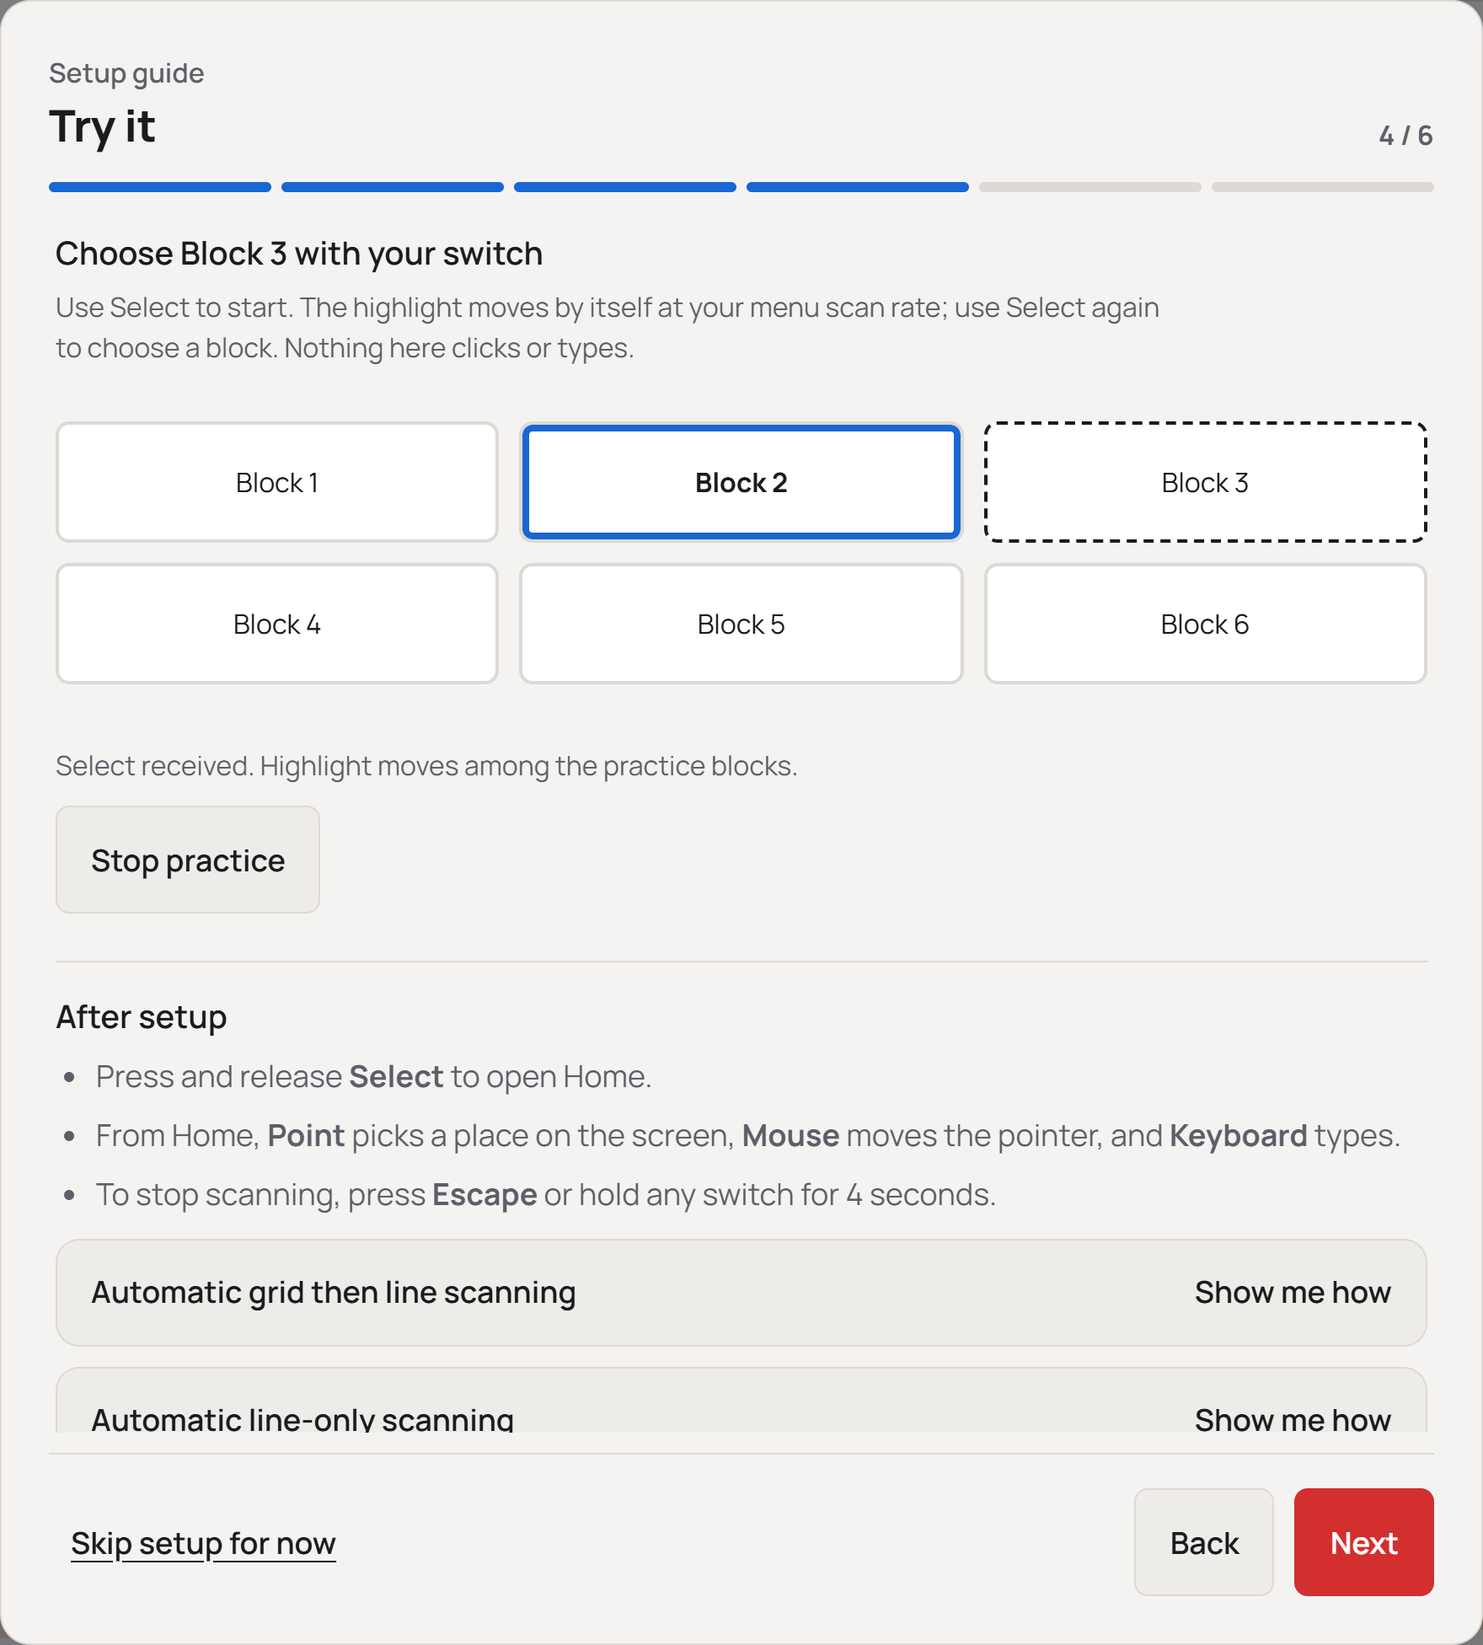
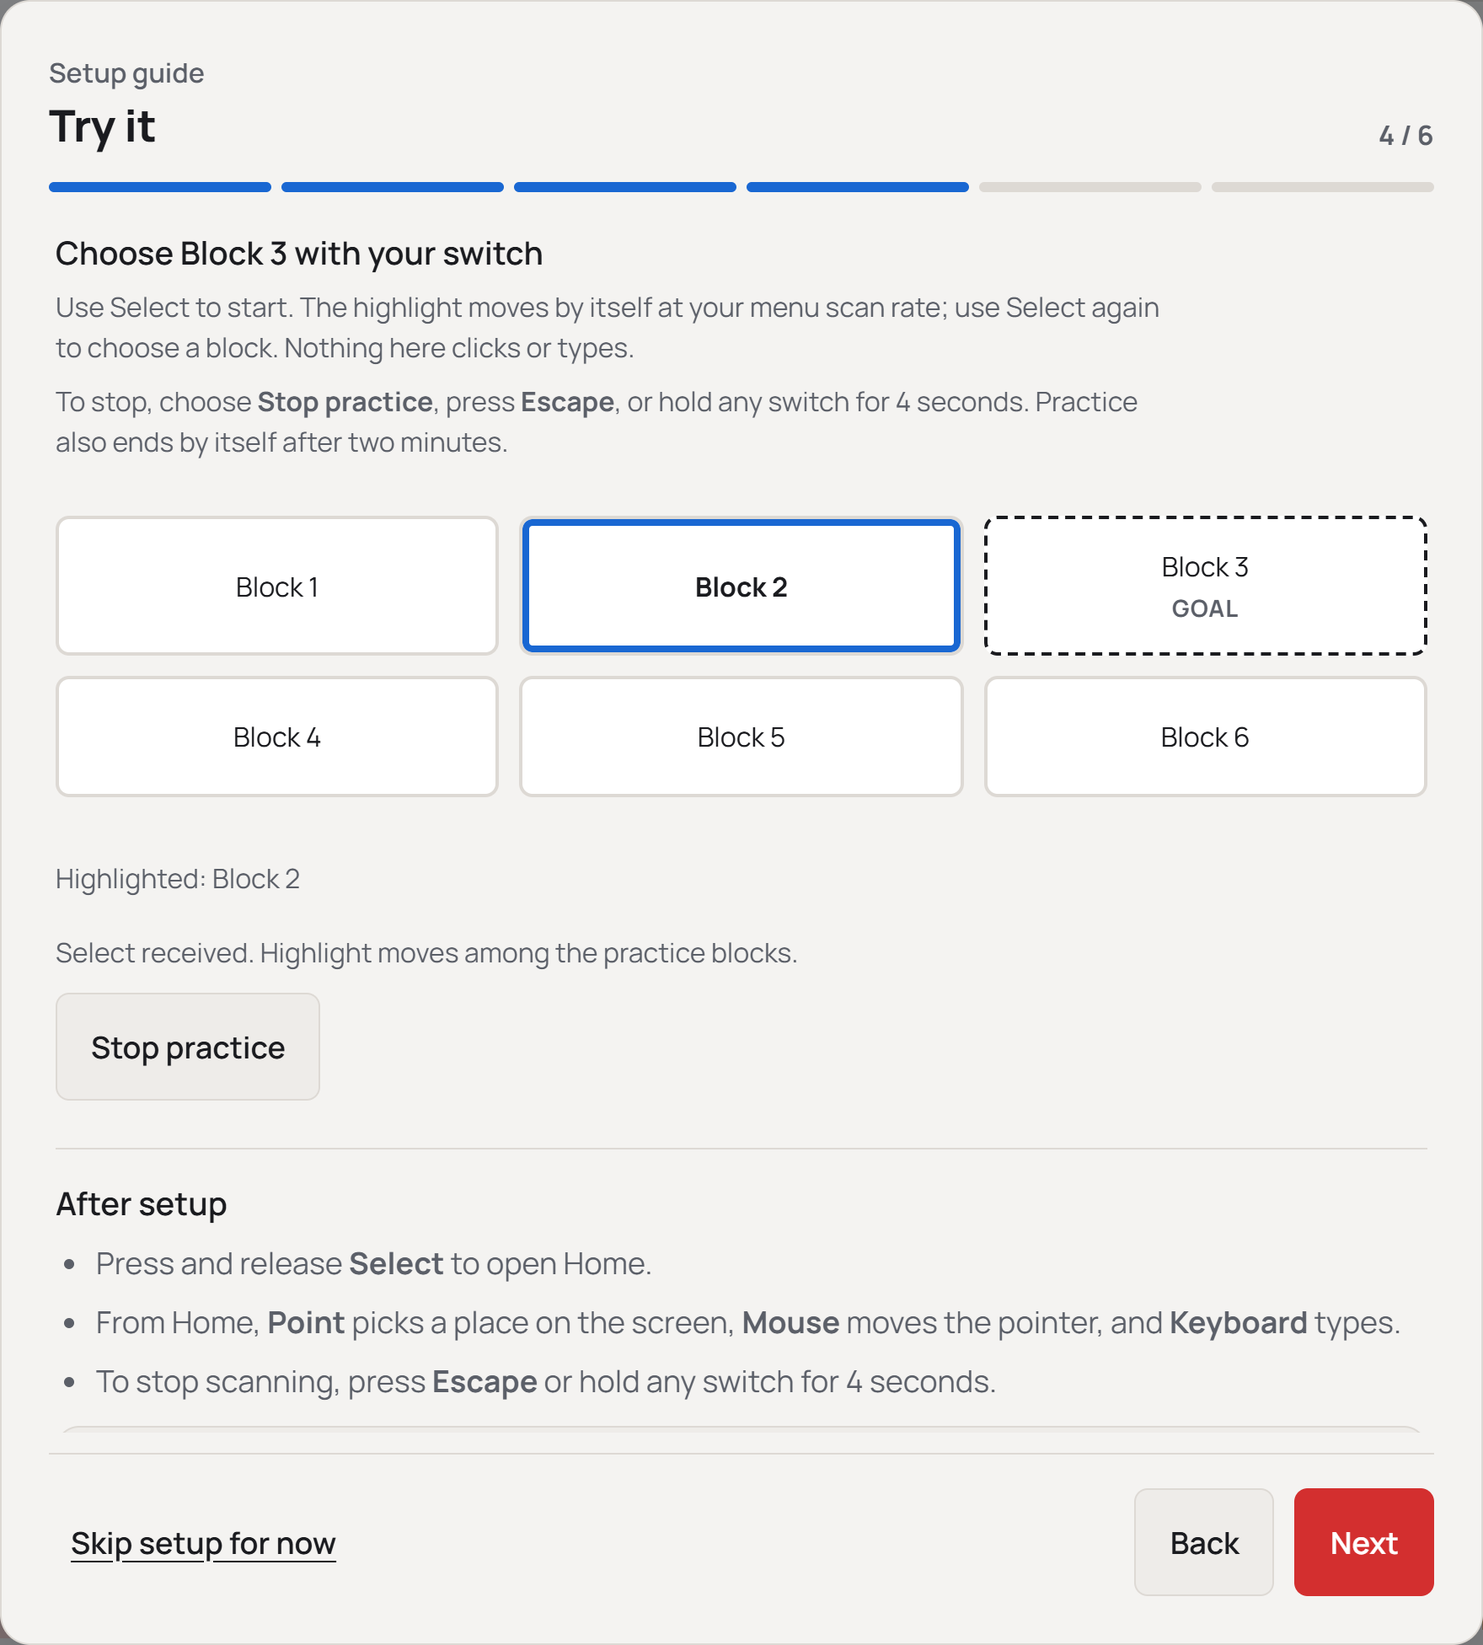
Address review of the setup guide Try it step
- Practice scans with the Home menu's full settings, including passes,
  direction and first-item and group timing. When its passes run out,
  the highlight stops and Select starts it again, as in the menu,
  instead of appearing stuck on a block.
- Manual practice checks that Select, Next and Previous are assigned,
  as manual scanning does, so the guide says why it cannot start.
- Focus moves to Stop practice when practice starts and back to Start
  practice when it ends; the highlighted block is announced, Block 3
  is labelled Goal, and the step says when practice has ended.
- A pairing request that suspends the guide ends practice.
- The step says how to stop practice.

Refs #1488

Changed region(s): [[0.0312, 0.2188, 0.9688, 0.875], [0.8125, 0.8438, 0.9375, 0.875], [0.7188, 0.2188, 0.75, 0.25]]

diff --git a/src/setup/TryItStep.tsx b/src/setup/TryItStep.tsx
@@ -1,4 +1,4 @@
-import { useEffect, useState } from "react";
+import { useEffect, useRef, useState } from "react";
 import { CircleCheck } from "lucide-react";
 import { Button } from "../ui/controls";
 import { FeedbackMessage } from "../ui/patterns";
@@ -27,25 +27,43 @@ export function TryItStep({ hasSwitch, phone, automatic, escapeSeconds, suspende
   // Practice clears its view when it ends; the success stays.
   const [succeeded, setSucceeded] = useState(false);
   useEffect(() => { if (reached) setSucceeded(true); }, [reached]);
+  // A pairing request covers the guide, so practice must not keep the switches meanwhile.
+  useEffect(() => { if (suspended && open) void close(); }, [suspended, open]);
+  // Focus follows the control that replaces the one just used, so nobody is left on the page body.
+  const startRef = useRef<HTMLButtonElement>(null);
+  const stopRef = useRef<HTMLButtonElement>(null);
+  const [ended, setEnded] = useState(false);
+  const wasOpen = useRef(false);
+  useEffect(() => {
+    if (open) { setEnded(false); stopRef.current?.focus(); }
+    else if (wasOpen.current) { setEnded(true); if (!suspended) startRef.current?.focus(); }
+    wasOpen.current = open;
+  }, [open]);
   if (phone) return <div className="setup-try">
     <h3>Try it from your phone</h3>
     <p>On your phone, open Switchify, choose <strong>PC control</strong>, and pick this computer. Its Mouse, Typing and Window controls then work this computer. Scanning on this computer pauses while the phone is connected.</p>
     <AfterSetup escapeSeconds={escapeSeconds} />
   </div>;
   const missed = !!view?.lastChoice && !reached;
+  const highlighted = view?.blocks.find(block => block.selected)?.label;
   return <div className="setup-try">
     <h3>Choose {goalBlock} with your switch</h3>
     {!hasSwitch ? <p>Add a switch first to try it here. You can also practise later from <strong>Switches</strong>.</p> : <>
       <p>{practiceInstructions(view?.automatic ?? automatic)} Nothing here clicks or types.</p>
-      {!open && <Button type="button" className="primary" disabled={pending || suspended || !practiceAvailable()} onClick={() => void begin(false)}>Start practice</Button>}
+      <p>To stop, choose <strong>Stop practice</strong>, press <strong>Escape</strong>, or hold any switch for {escapeSeconds} seconds. Practice also ends by itself after two minutes.</p>
+      {!open && <Button ref={startRef} type="button" className="primary" disabled={pending || suspended || !practiceAvailable()} onClick={() => void begin(false)}>Start practice</Button>}
       {open && <div className="setup-try-practice">
         <ul className="switch-practice-blocks" aria-label="Practice blocks">
-          {(view?.blocks ?? []).map(block => <li key={block.id} data-selected={block.selected} data-goal={block.label === goalBlock || undefined}>{block.label}</li>)}
+          {(view?.blocks ?? []).map(block => <li key={block.id} data-selected={block.selected} aria-current={block.selected || undefined} data-goal={block.label === goalBlock || undefined}>
+            {block.label}{block.label === goalBlock && <small className="setup-try-goal">Goal</small>}
+          </li>)}
         </ul>
+        <p aria-live="polite">Highlighted: {highlighted ?? "none"}</p>
         <p role="status" aria-live="polite">{reached ? `You chose ${goalBlock}. Your switch is working.` : missed ? `You chose ${view?.lastChoice}. Press Select to try again for ${goalBlock}.` : view?.message ?? "Starting practice…"}</p>
-        <Button type="button" className="secondary" disabled={pending} onClick={() => void close()}>Stop practice</Button>
+        <Button ref={stopRef} type="button" className="secondary" disabled={pending} onClick={() => void close()}>Stop practice</Button>
       </div>}
-      {succeeded && !open && <p className="setup-try-done" role="status"><CircleCheck size={20} />You chose {goalBlock}. Your switch is working.</p>}
+      {!open && succeeded && <p className="setup-try-done" role="status"><CircleCheck size={20} />You chose {goalBlock}. Your switch is working.</p>}
+      {!open && ended && !succeeded && <p role="status">Practice ended. Choose Start practice to try again.</p>}
       {error && <FeedbackMessage>{error}</FeedbackMessage>}
     </>}
     <AfterSetup escapeSeconds={escapeSeconds} />

diff --git a/src/setup/TryItStep.test.tsx b/src/setup/TryItStep.test.tsx
@@ -51,6 +51,36 @@ describe("setup Try it step", () => {
     expect(invoke).toHaveBeenCalledWith("end_switch_practice");
   });
 
+  it("moves focus with practice and says where the highlight is", async () => {
+    current = { ...view, blocks: blocks(2) };
+    step();
+    fireEvent.click(screen.getByRole("button", { name: "Start practice" }));
+    await waitFor(() => expect(screen.getByRole("button", { name: "Stop practice" })).toHaveFocus());
+    expect(screen.getByText("Highlighted: Block 2")).toBeInTheDocument();
+    // The goal is in the text, not only in its outline.
+    expect(screen.getByText("Block 3").closest("li")).toHaveTextContent("Block 3Goal");
+    fireEvent.click(screen.getByRole("button", { name: "Stop practice" }));
+    await waitFor(() => expect(screen.getByRole("button", { name: "Start practice" })).toHaveFocus());
+    expect(screen.getByText("Practice ended. Choose Start practice to try again.")).toBeInTheDocument();
+  });
+
+  it("ends practice when a pairing request suspends the guide", async () => {
+    const { rerender } = step();
+    fireEvent.click(screen.getByRole("button", { name: "Start practice" }));
+    await screen.findByRole("list", { name: "Practice blocks" });
+    invoke.mockClear();
+    rerender(<TryItStep hasSwitch phone={false} automatic escapeSeconds={4} suspended />);
+    await waitFor(() => expect(invoke).toHaveBeenCalledWith("end_switch_practice"));
+    expect(screen.getByRole("button", { name: "Start practice" })).toBeDisabled();
+  });
+
+  it("shows why practice could not start", async () => {
+    invoke.mockImplementation(async (command: string) => { if (command === "begin_switch_practice") throw new Error("Manual scanning starts once switches cover Select, Next and Previous."); });
+    step({ automatic: false });
+    fireEvent.click(screen.getByRole("button", { name: "Start practice" }));
+    expect(await screen.findByRole("alert")).toHaveTextContent("Manual scanning starts once switches cover Select, Next and Previous.");
+  });
+
   it("asks for a switch first when none is saved", () => {
     step({ hasSwitch: false });
     expect(screen.queryByRole("button", { name: "Start practice" })).not.toBeInTheDocument();
@@ -65,6 +95,7 @@ describe("setup Try it step", () => {
 
   it("says how to open Home and stop scanning", () => {
     step({ escapeSeconds: 3 });
-    expect(screen.getByText(/hold any switch for 3 seconds/)).toBeInTheDocument();
+    expect(screen.getByText(/To stop scanning, press/)).toHaveTextContent("hold any switch for 3 seconds");
+    expect(screen.getByText(/To stop, choose/)).toHaveTextContent("hold any switch for 3 seconds");
   });
 });

diff --git a/src/ui/app.css b/src/ui/app.css
@@ -820,6 +820,8 @@ fieldset:disabled :is(.color-options, .scanner-colours) label:not(:has(input:che
 .setup-try-practice { display: grid; justify-items: start; gap: 12px; margin-top: 16px; }
 .setup-try-practice .switch-practice-blocks { width: 100%; }
 .setup-try .switch-practice-blocks li[data-goal] { border: 2px dashed var(--text); }
+.setup-try .switch-practice-blocks li { flex-direction: column; gap: 2px; }
+.setup-try-goal { color: var(--muted); font-size: 14px; font-weight: 700; text-transform: uppercase; letter-spacing: 0.04em; }
 .setup-content p.setup-try-done { display: flex; align-items: center; gap: 8px; color: var(--text); font-weight: 700; }
 .setup-after { margin-top: 28px; border-top: 1px solid var(--border); padding-top: 20px; }
 .setup-after ul { margin: 8px 0 0; padding-left: 24px; color: var(--muted); line-height: 1.6; }

diff --git a/src-tauri/src/switch_practice.rs b/src-tauri/src/switch_practice.rs
@@ -1,6 +1,7 @@
 //! Bounded switch practice: real gestures and a simple block scanner, no native execution.
 use crate::{
     scan_items::{ItemScanner, Policy},
+    scan_preferences::Resolved,
     scan_tree::Node,
     scanning::{Action, Frame, Session, Technique},
     switch_gestures::Gestures,
@@ -18,19 +19,13 @@ const PRACTICE_BLOCKS: [&str; 6] = [
 /// Used when the scanning settings cannot be read, as before practice followed them.
 const PRACTICE_INTERVAL_MS: u64 = 1000;
 
-/// How the practice highlight moves: the menu's automatic scanning and scan
-/// rate, so practice feels like the Home menu it prepares for.
-#[derive(Clone, Copy, Debug, PartialEq, Eq)]
-pub struct Pace {
-    pub automatic: bool,
-    pub interval_ms: u64,
-}
-impl Default for Pace {
-    fn default() -> Self {
-        Self {
-            automatic: false,
-            interval_ms: PRACTICE_INTERVAL_MS,
-        }
+/// How practice scans when the menu's settings cannot be read: manual, at
+/// the rate practice always used.
+fn fallback_options() -> Resolved {
+    Resolved {
+        automatic: false,
+        interval_ms: PRACTICE_INTERVAL_MS,
+        ..Resolved::default()
     }
 }
 
@@ -63,27 +58,32 @@ struct Block {
     label: &'static str,
 }
 
+/// The practice blocks scan with the Home menu's settings: automatic or
+/// manual, scan rate, direction, passes, and first-item and group timing.
 struct Blocks {
     scan: ItemScanner<Block>,
     labels: Vec<&'static str>,
-    interval_ms: u64,
 }
 impl Blocks {
-    fn new(interval_ms: u64) -> Self {
+    fn new(options: Resolved) -> Self {
         let labels = PRACTICE_BLOCKS.to_vec();
         let nodes = labels
             .iter()
             .enumerate()
             .map(|(id, label)| Node::Leaf(Block { id, label }))
             .collect();
-        Self {
-            scan: ItemScanner::new(nodes, Policy::MENU),
-            labels,
-            interval_ms,
-        }
+        let mut scan = ItemScanner::new(nodes, Policy::MENU);
+        scan.options = options;
+        scan.restart();
+        Self { scan, labels }
+    }
+    /// Scanning ran out of passes; like the menu, it waits for Select.
+    fn stopped(&self) -> bool {
+        self.scan.suspended
     }
     fn views(&self, scanning: bool) -> Vec<BlockView> {
-        let selected = scanning.then(|| self.scan.nav.index());
+        // A stopped scan shows no highlight, as the menu does.
+        let selected = (scanning && !self.stopped()).then(|| self.scan.nav.index());
         self.labels
             .iter()
             .enumerate()
@@ -102,7 +102,7 @@ impl Technique for Blocks {
         self.scan.restart();
     }
     fn advance(&mut self, elapsed_ms: u64) {
-        self.scan.advance(elapsed_ms, self.interval_ms);
+        self.scan.advance(elapsed_ms, self.scan.options.interval_ms);
     }
     fn handle(&mut self, action: Action) -> Option<Self::Selection> {
         self.scan.handle(action)
@@ -128,7 +128,7 @@ struct Practice {
     held_since: Option<u64>,
 }
 impl Practice {
-    fn new(settings: Settings, generation: u64, remote: bool, pace: Pace) -> Self {
+    fn new(settings: Settings, generation: u64, remote: bool, options: Resolved) -> Self {
         let mut practice = Self {
             view: View {
                 active: true,
@@ -138,16 +138,16 @@ impl Practice {
                     "This computer"
                 }
                 .into(),
-                message: if pace.automatic {
+                message: if options.automatic {
                     "Use Select to start. The highlight moves by itself; use Select again to choose."
                 } else {
                     "Use Select to start. Next and Previous move an active scan among the practice blocks."
                 }
                 .into(),
-                automatic: pace.automatic,
+                automatic: options.automatic,
                 ..View::default()
             },
-            engine: Session::new(Blocks::new(pace.interval_ms), pace.automatic),
+            engine: Session::new(Blocks::new(options), options.automatic),
             gestures: Gestures::default(),
             settings,
             generation,
@@ -216,6 +216,13 @@ impl Practice {
         }
         self.sync_blocks();
     }
+    fn note_stopped(&mut self, was_stopped: bool) {
+        if !was_stopped && self.engine.active() && self.engine.technique.stopped() {
+            self.view.message =
+                "The highlight stopped after its passes, as the menu does. Use Select to start again."
+                    .into();
+        }
+    }
     fn complete(&mut self, block: &Block) {
         // Intentionally discard every selection — practice never drives native adapters.
         self.view.completed += 1;
@@ -242,11 +249,13 @@ impl Practice {
                 prompt.action.label()
             );
         }
+        let was_stopped = self.engine.technique.stopped();
         self.engine.tick(
             self.last_tick.elapsed().as_millis().min(250) as u64,
             self.gestures.held(),
         );
         self.last_tick = Instant::now();
+        self.note_stopped(was_stopped);
         self.sync_blocks();
     }
 }
@@ -340,16 +349,13 @@ pub fn begin(app: &AppHandle, remote: bool) -> Result<View, String> {
                 .config
                 .resolved(crate::scan_preferences::Area::Menu)
         });
-    let pace = menu.map_or_else(Pace::default, |menu| Pace {
-        automatic: menu.automatic,
-        interval_ms: menu.interval_ms,
-    });
-    let mut session = Practice::new(settings, generation, remote, pace);
+    let options = menu.unwrap_or_else(fallback_options);
+    let mut session = Practice::new(settings, generation, remote, options);
     crate::point_scan_runtime::pause(app);
     let result = if remote {
         switches.enable_escape()
     } else {
-        switches.enable(true)
+        switches.enable(options.automatic)
     };
     result?;
     if !remote {
@@ -449,7 +455,7 @@ mod tests {
             }],
             ..Default::default()
         };
-        Practice::new(settings, 7, false, Pace::default())
+        Practice::new(settings, 7, false, fallback_options())
     }
     #[test]
     fn input_feedback_and_hold_actions_use_saved_binding() {
@@ -499,19 +505,54 @@ mod tests {
     #[test]
     fn automatic_practice_moves_at_the_menu_rate_and_records_the_choice() {
         let mut p = practice();
-        p.engine = Session::new(Blocks::new(500), true);
+        p.engine = Session::new(
+            Blocks::new(Resolved {
+                automatic: true,
+                interval_ms: 500,
+                ..Resolved::default()
+            }),
+            true,
+        );
         p.view.automatic = true;
         p.action(Action::Select);
         let first = p.view.blocks.iter().position(|b| b.selected).unwrap();
         p.engine.tick(250, false);
         p.sync_blocks();
         assert_eq!(p.view.blocks.iter().position(|b| b.selected), Some(first));
+        // The menu's other timing applies too; here the first item has no extra time.
         p.engine.tick(250, false);
         p.sync_blocks();
         let moved = p.view.blocks.iter().position(|b| b.selected).unwrap();
         assert_ne!(moved, first);
         p.action(Action::Select);
         assert_eq!(p.view.last_choice.as_deref(), Some(PRACTICE_BLOCKS[moved]));
+    }
+    #[test]
+    fn automatic_practice_stops_after_its_passes_and_select_starts_again() {
+        let mut p = practice();
+        p.engine = Session::new(
+            Blocks::new(Resolved {
+                automatic: true,
+                interval_ms: 100,
+                pass_limit: 1,
+                ..Resolved::default()
+            }),
+            true,
+        );
+        p.action(Action::Select);
+        for _ in 0..20 {
+            let was = p.engine.technique.stopped();
+            p.engine.tick(100, false);
+            p.note_stopped(was);
+        }
+        p.sync_blocks();
+        assert!(p.engine.technique.stopped());
+        assert!(p.view.blocks.iter().all(|b| !b.selected));
+        assert!(p.view.message.contains("Use Select to start again"));
+        // Select starts the scan again rather than choosing an unseen block.
+        p.action(Action::Select);
+        assert!(p.view.last_choice.is_none());
+        assert_eq!(p.view.blocks.iter().filter(|b| b.selected).count(), 1);
     }
     #[test]
     fn manual_practice_waits_for_next() {

diff --git a/site/src/content/docs/get-started/install.md b/site/src/content/docs/get-started/install.md
@@ -66,9 +66,9 @@ The first time Switchify PC opens, a guide walks you through:
 
    ![The Scanning pace step with Medium chosen, and a demo row of six numbered items with the first highlighted.](../../../assets/screenshots/setup-pace.png)
 
-5. **Try it.** Choose **Start practice**, press **Select**, and choose **Block 3** with your switch. The practice blocks scan the way the Home menu will: with automatic scanning the highlight moves by itself at your pace, and with manual scanning you move it with **Next** and **Previous**. Nothing in practice clicks or types. The guide tells you when you have chosen Block 3, or which block you chose instead so you can try again. Below the practice, a short list says how to open Home after setup and how to stop scanning. If you chose to connect a phone, this step says how to start PC control from the phone instead.
+5. **Try it.** Choose **Start practice**, press **Select**, and choose **Block 3** with your switch. The practice blocks scan the way the Home menu will: with automatic scanning the highlight moves by itself at your pace, and with manual scanning you move it with **Next** and **Previous**, which then need switches of their own. Like the menu, the highlight stops after its passes; press **Select** to start it again. Block 3 is marked **Goal**. Nothing in practice clicks or types. To stop, choose **Stop practice**, press **Escape**, or hold any switch; practice also ends after two minutes, or when a pairing request appears. The guide tells you when you have chosen Block 3, or which block you chose instead so you can try again. Below the practice, a short list says how to open Home after setup and how to stop scanning. If you chose to connect a phone, this step says how to start PC control from the phone instead.
 
-   ![The Try it step during practice, with six blocks, Block 2 highlighted and Block 3 outlined as the goal, and a Stop practice button.](../../../assets/screenshots/setup-try.png)
+   ![The Try it step during practice, with six blocks, Block 2 highlighted, Block 3 marked Goal, and a Stop practice button.](../../../assets/screenshots/setup-try.png)
 
 6. **Start with system.** Choose **Start with system** or **Start manually**. With Start with system, Switchify PC starts quietly when you sign in, in the system tray on Windows or the menu bar on a Mac.
 
